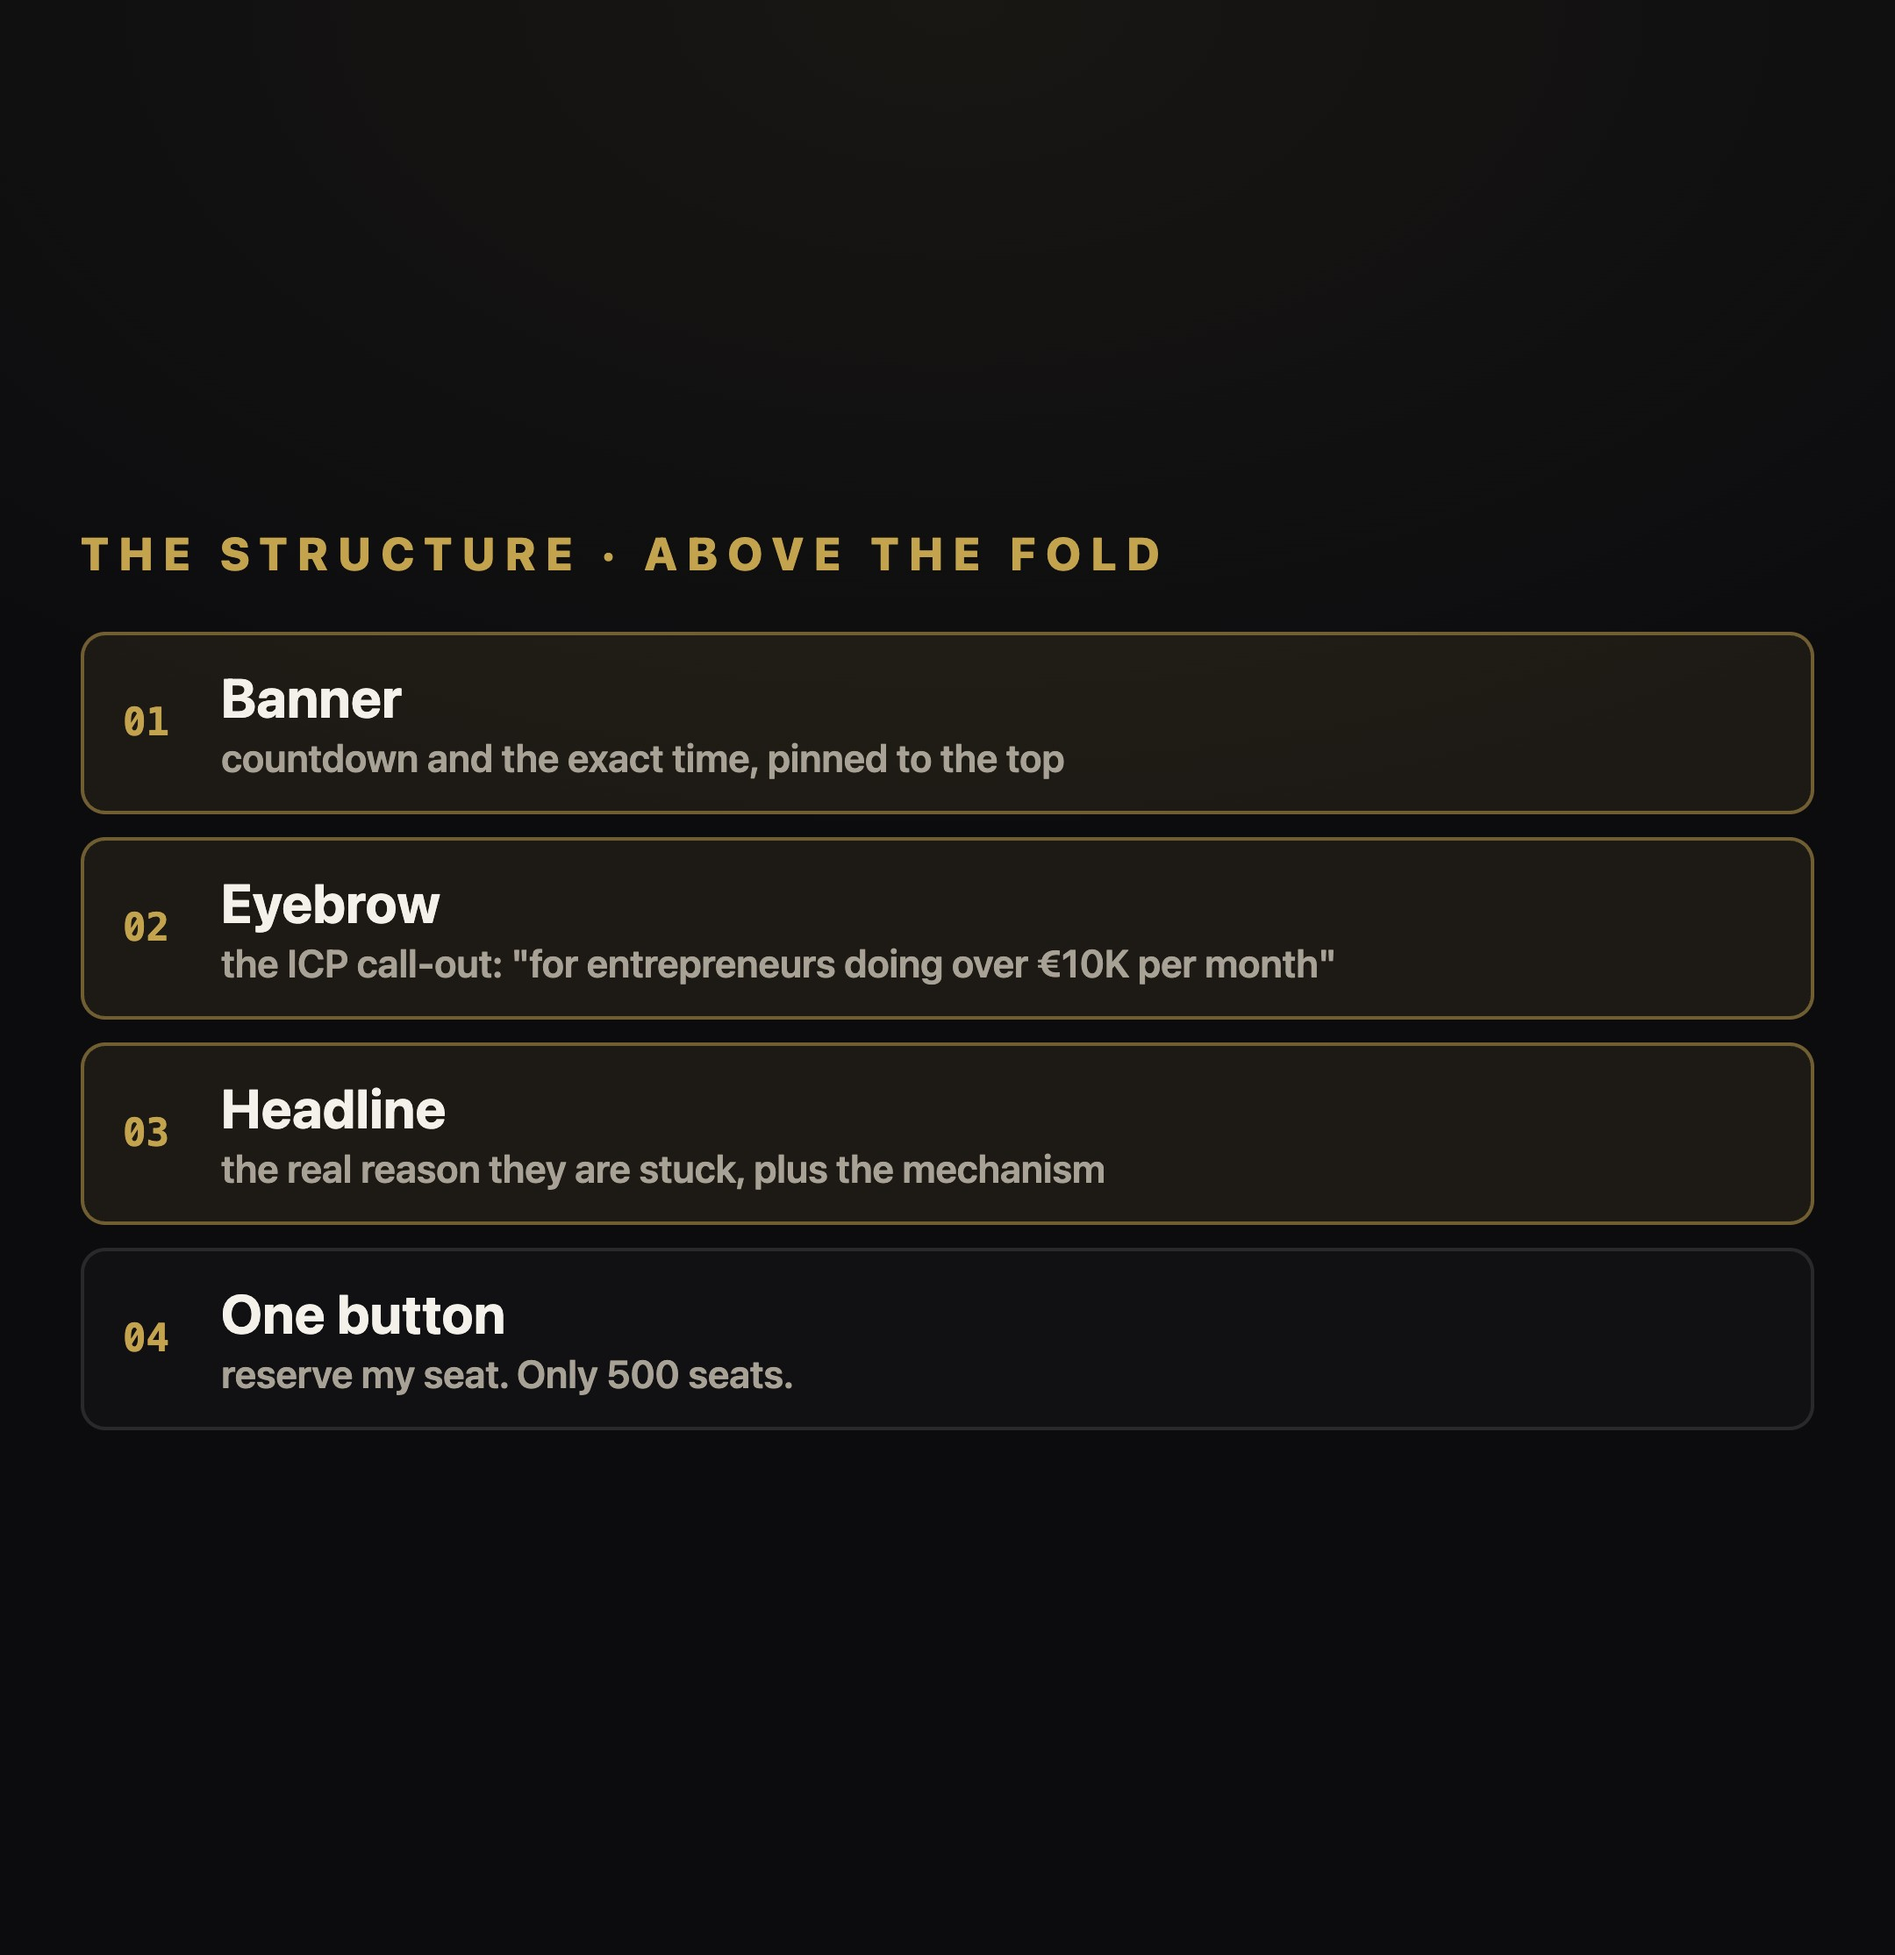
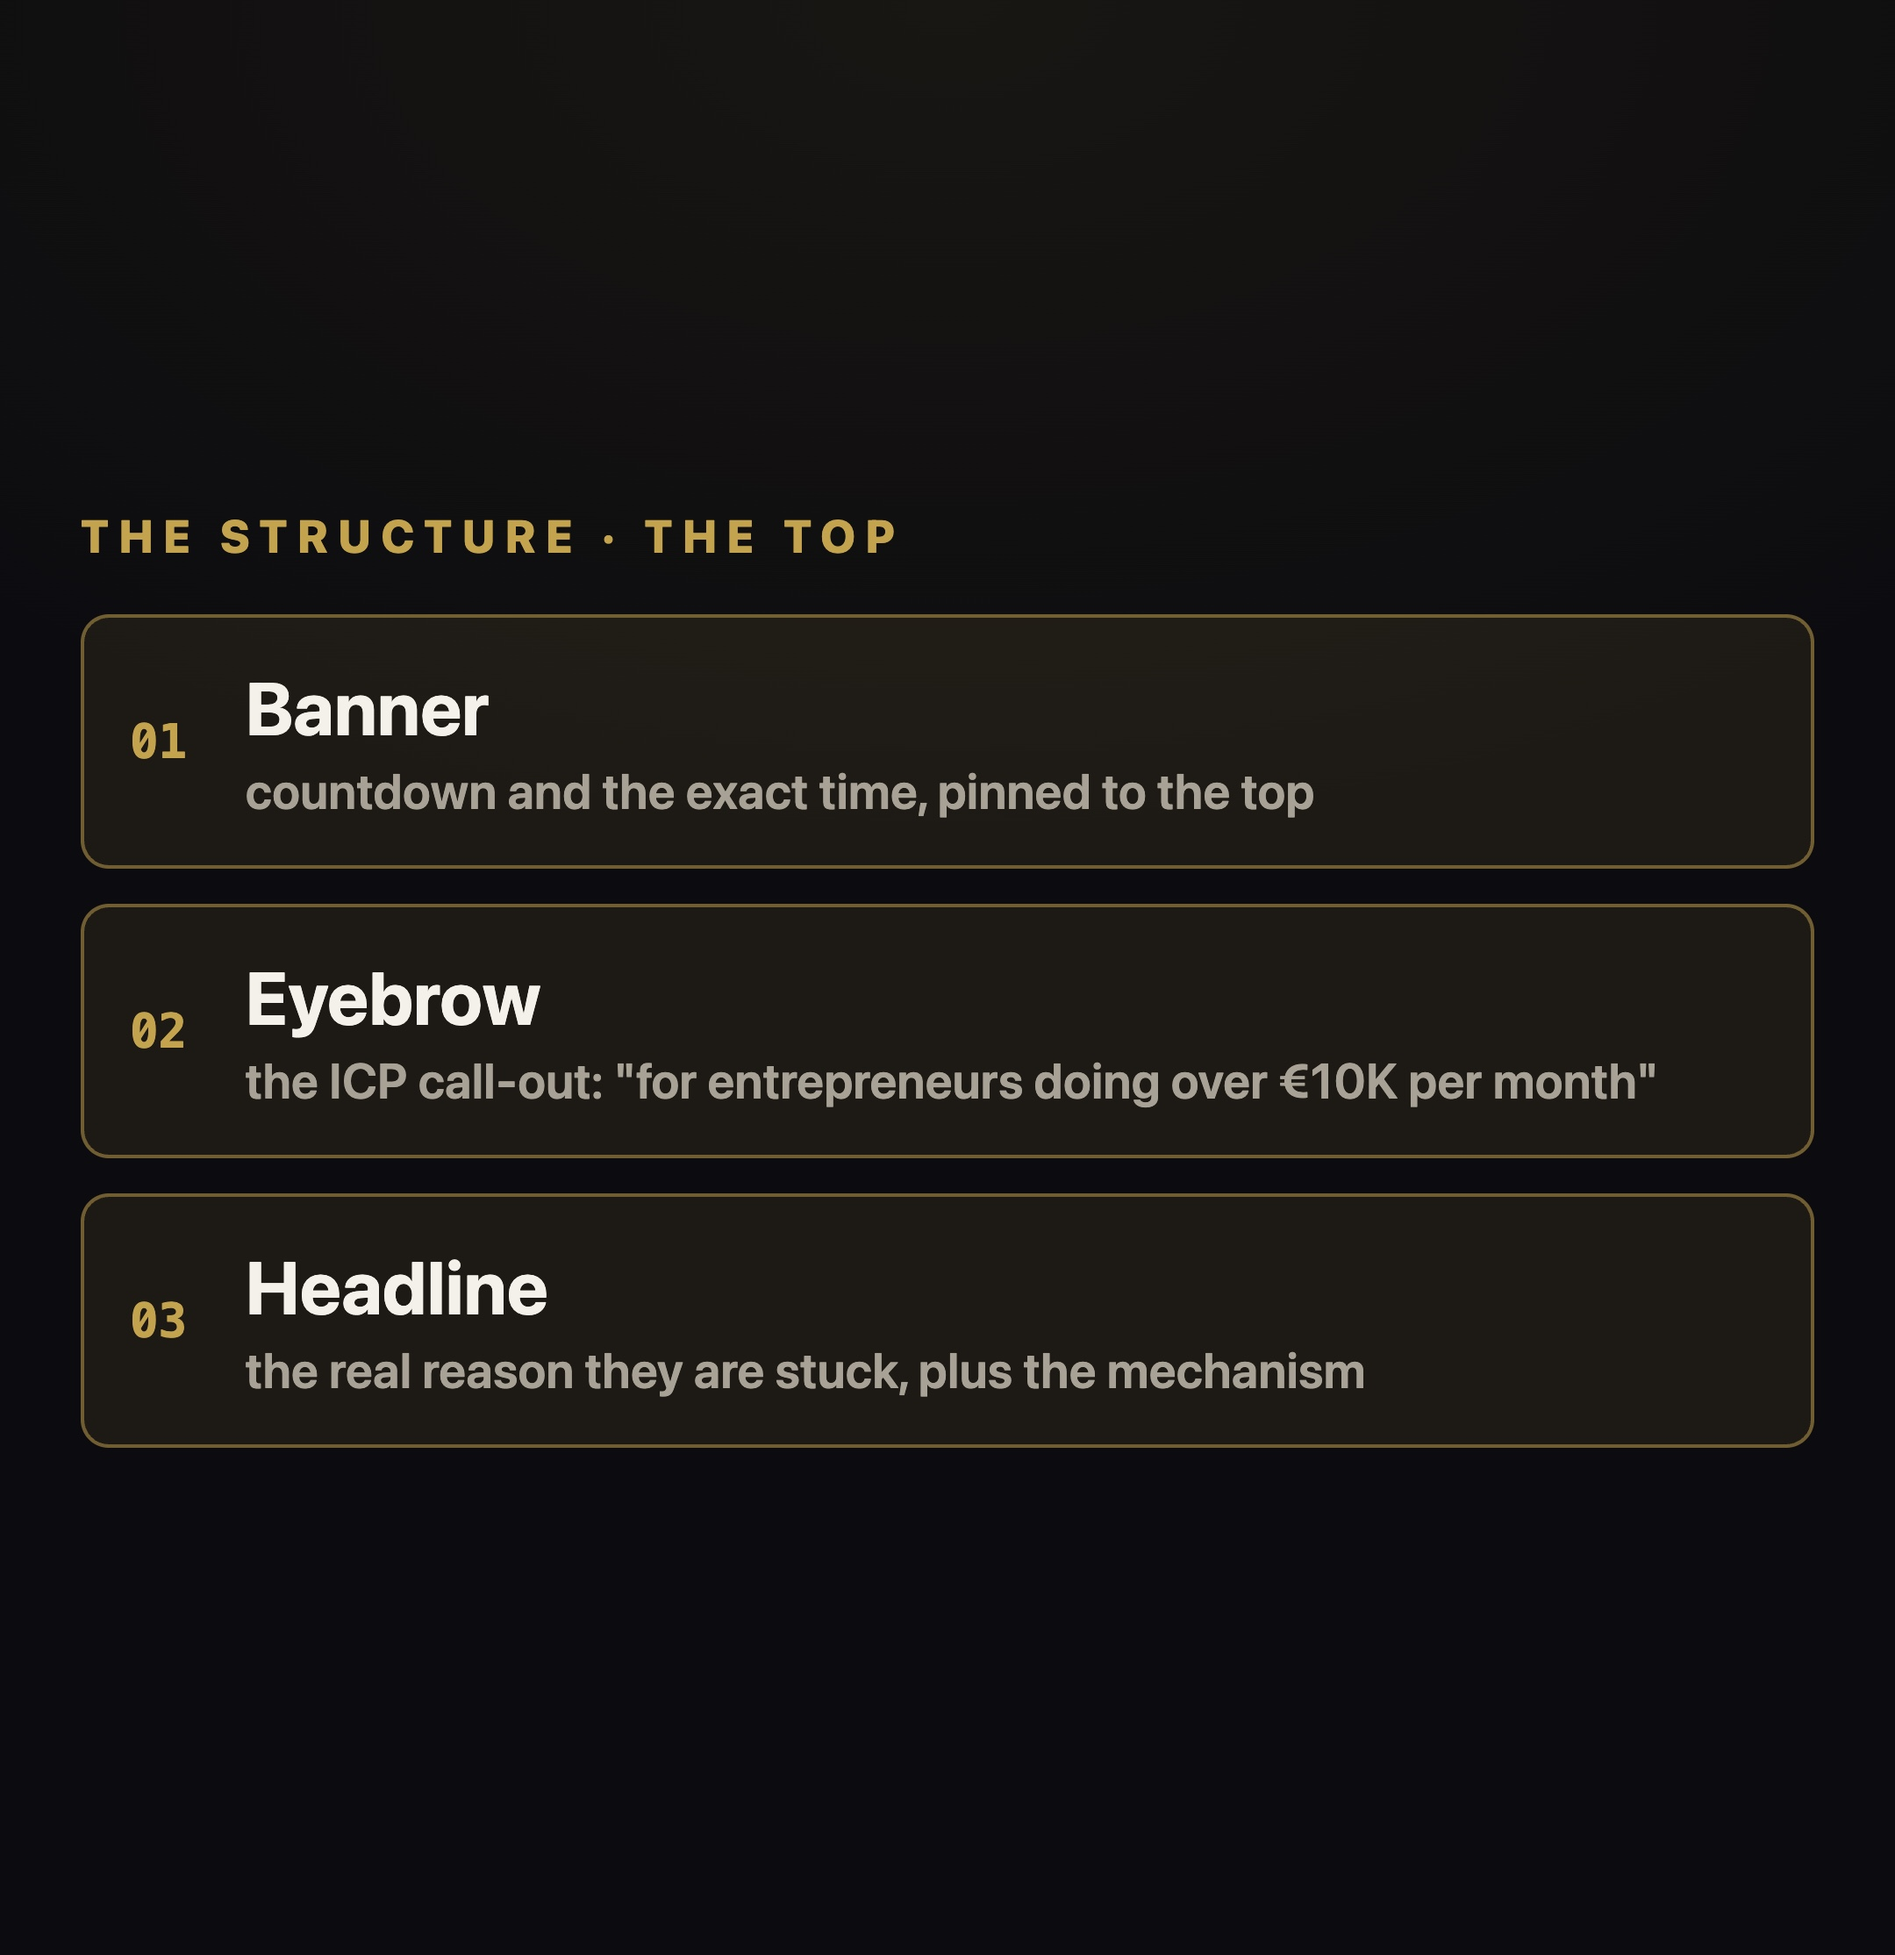
Opt-in structure: one 7-step sequence, no button, no proof strip

Changed region(s): [[0.031, 0.2478, 0.9616, 0.7123], [0.9306, 0.7123, 0.9616, 0.7433]]

diff --git a/frames-funnel.html b/frames-funnel.html
@@ -75,6 +75,11 @@
   .el .i{font-family:var(--mono);font-size:22px;font-weight:800;color:var(--gold);width:38px;flex:0 0 38px}
   .el .n{font-size:31px;font-weight:700}
   .el .n small{display:block;font-size:22px;color:var(--mut);font-weight:600;margin-top:3px}
+  .stack.big{gap:20px}
+  .stack.big .el{padding:26px 26px;border-radius:16px}
+  .stack.big .el .i{font-size:27px;width:48px;flex:0 0 48px}
+  .stack.big .el .n{font-size:42px}
+  .stack.big .el .n small{font-size:28px;margin-top:6px}
   .steps3{display:flex;flex-direction:column;gap:16px;margin-top:12px}
   .s3{display:flex;gap:18px;align-items:flex-start;border:2px solid rgba(196,163,79,.32);border-radius:16px;
     padding:20px 24px;background:rgba(196,163,79,.06)}
@@ -162,24 +167,22 @@
 
 <!-- g4 · structure, the top of the page -->
 <div class="f" id="g4" style="padding:46px 46px">
-  <div class="eb">The structure · above the fold</div>
-  <div class="stack">
+  <div class="eb">The structure · the top</div>
+  <div class="stack big">
     <div class="el key"><span class="i">01</span><span class="n">Banner<small>countdown and the exact time, pinned to the top</small></span></div>
     <div class="el key"><span class="i">02</span><span class="n">Eyebrow<small>the ICP call-out: "for entrepreneurs doing over €10K per month"</small></span></div>
     <div class="el key"><span class="i">03</span><span class="n">Headline<small>the real reason they are stuck, plus the mechanism</small></span></div>
-    <div class="el"><span class="i">04</span><span class="n">One button<small>reserve my seat. Only 500 seats.</small></span></div>
   </div>
 </div>
 
 <!-- g5 · structure, the body -->
 <div class="f" id="g5" style="padding:46px 46px">
-  <div class="eb">The structure · everything below it</div>
-  <div class="stack">
-    <div class="el"><span class="i">05</span><span class="n">Proof strip<small>press logos, €100M+ in client results, 3,500+ coached, 4.6/5</small></span></div>
-    <div class="el"><span class="i">06</span><span class="n">About me<small>why this person and not someone else</small></span></div>
-    <div class="el key"><span class="i">07</span><span class="n">What you will learn<small>the three pillars, named</small></span></div>
-    <div class="el"><span class="i">08</span><span class="n">Case studies<small>named founders, real numbers, on video</small></span></div>
-    <div class="el key"><span class="i">09</span><span class="n">Your gift on registration<small>the reason to sign up today instead of later</small></span></div>
+  <div class="eb">The structure · and then</div>
+  <div class="stack big">
+    <div class="el"><span class="i">04</span><span class="n">About me<small>why this person and not someone else</small></span></div>
+    <div class="el key"><span class="i">05</span><span class="n">What you will learn<small>the three pillars, named</small></span></div>
+    <div class="el"><span class="i">06</span><span class="n">Case studies<small>named founders, real numbers, on video</small></span></div>
+    <div class="el key"><span class="i">07</span><span class="n">The freebie<small>the reason to sign up today instead of later</small></span></div>
   </div>
 </div>
 

diff --git a/index.html b/index.html
@@ -108,8 +108,8 @@
         {img:'img/g1.jpg', s:"Five thousand seven hundred in ads came back as a hundred grand. Nine days, one webinar, seventeen and a half times return. Here's the exact webinar funnel."},
         {img:'img/g2.jpg', s:"Four opt-in pages A/B tested, feeding one two-step form. That splits into two thank-you pages, and it all lands on one custom analytics page."},
         {img:'img/g3.jpg', s:"This is the opt-in page. Every one of those ads pointed here."},
-        {img:'img/g4.jpg', s:"Above the fold, four things. Banner with the countdown. An eyebrow calling out the ICP, for entrepreneurs over ten grand a month. The headline. One button."},
-        {img:'img/g5.jpg', s:"Below it, five more. Proof strip, about me, what you'll learn, case studies, the gift. Every page we build follows that order."},
+        {img:'img/g4.jpg', s:"The top of the page is three things. A banner with the countdown. An eyebrow calling out the ICP, for entrepreneurs over ten grand a month. Then the headline."},
+        {img:'img/g5.jpg', s:"Then, in this order. About me. What you'll learn. Case studies. The freebie. Every page we build follows that order."},
         {img:'img/g6.jpg', s:"What you'll learn is the mechanism, named. Three pillars, so it has a shape they can hold."},
         {img:'img/g7.jpg', s:"Case studies are named founders with real numbers, on video. Not a wall of anonymous screenshots."},
         {img:'img/g8.jpg', s:"And the gift for signing up. That's the reason to register today instead of thinking about it."},
